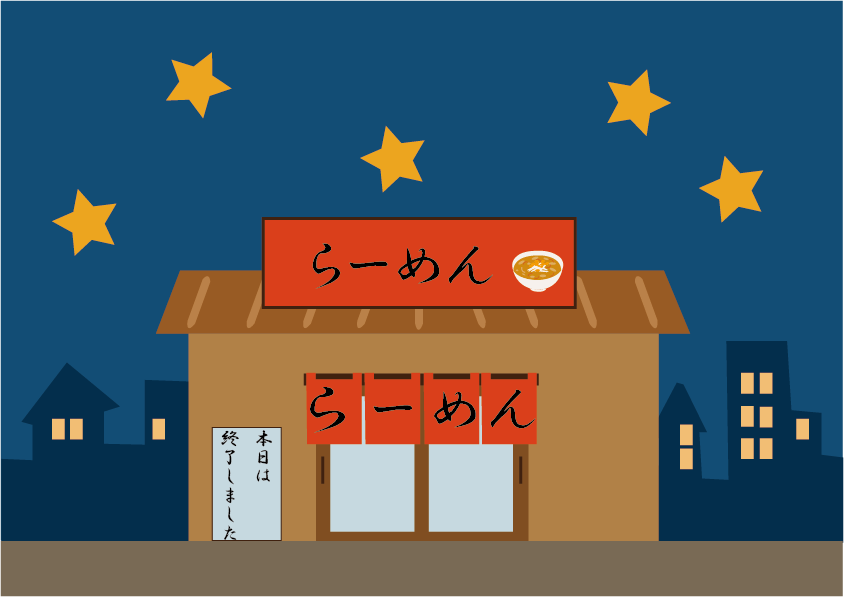
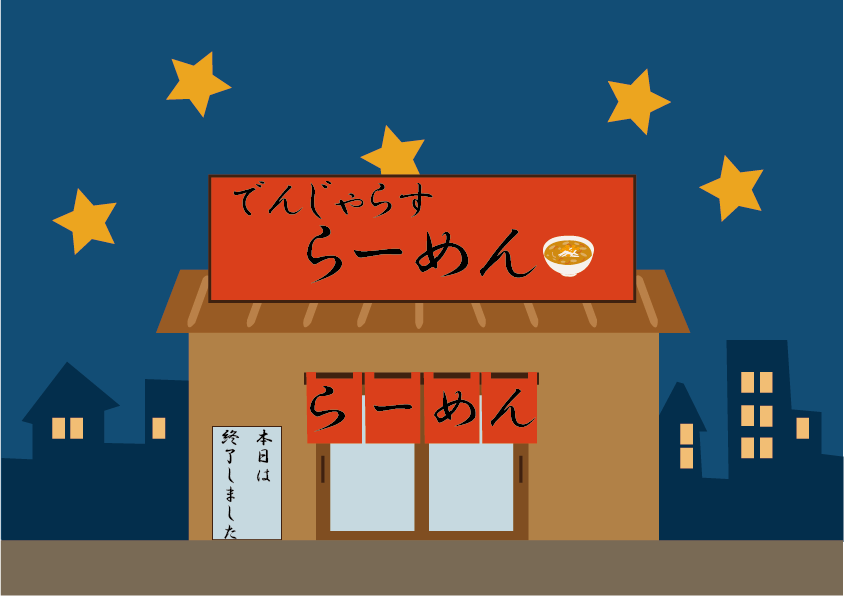
バグ：連続でキーを押したときの不具合と０秒でキーを押したときの一瞬×が見える不具合

diff --git a/pgame_canvas_sp.js b/pgame_canvas_sp.js
@@ -9,12 +9,6 @@ lib.ssMetadata = [];
 
 
 
-(lib.flash0aiアセット = function() {
-	this.initialize(img.flash0aiアセット);
-}).prototype = p = new cjs.Bitmap();
-p.nominalBounds = new cjs.Rectangle(0,0,843,596);
-
-
 (lib.GameBackScreen_SP = function() {
 	this.initialize(img.GameBackScreen_SP);
 }).prototype = p = new cjs.Bitmap();
@@ -90,7 +84,7 @@ p.nominalBounds = new cjs.Rectangle(0,0,168,159);
 (lib.ResultScene = function() {
 	this.initialize(img.ResultScene);
 }).prototype = p = new cjs.Bitmap();
-p.nominalBounds = new cjs.Rectangle(0,0,844,597);
+p.nominalBounds = new cjs.Rectangle(0,0,844,596);
 
 
 (lib.ResultSheet = function() {
@@ -127,6 +121,12 @@ p.nominalBounds = new cjs.Rectangle(0,0,167,166);
 	this.initialize(img.StartButton_SP_Push);
 }).prototype = p = new cjs.Bitmap();
 p.nominalBounds = new cjs.Rectangle(0,0,167,159);
+
+
+(lib.TopScene = function() {
+	this.initialize(img.TopScene);
+}).prototype = p = new cjs.Bitmap();
+p.nominalBounds = new cjs.Rectangle(0,0,843,596);
 
 
 (lib.TwitterButton_SP = function() {
@@ -409,6 +409,9 @@ p.nominalBounds = new cjs.Rectangle(0,0,167,166);
 	this.initialize(mode,startPosition,loop,{});
 
 	// Component
+	this.instance = new lib.TopScene();
+	this.instance.setTransform(-1,247,0.7604,0.8087);
+
 	this.helpsheet = new lib.HelpSheet();
 	this.helpsheet.name = "helpsheet";
 	this.helpsheet.setTransform(321.1,-221.45,0.7601,0.7434,0,0,0,421.1,-299.9);
@@ -423,22 +426,19 @@ p.nominalBounds = new cjs.Rectangle(0,0,167,166);
 	this.botan.setTransform(203.65,770.6,0.8981,0.9037,0,0,0,109.8,22.2);
 	new cjs.ButtonHelper(this.botan, 0, 1, 2);
 
-	this.instance = new lib.flash0aiアセット();
-	this.instance.setTransform(-1,248,0.7604,0.8087);
-
 	this.shape = new cjs.Shape();
[1 lines of base64/hex data omitted]
-	this.shape.setTransform(323.125,178.5625);
+	this.shape.graphics.f("#796A55").s().p("EgyEATiMAAAgnDMBkJAAAMAAAAnDg");
+	this.shape.setTransform(319.5,853.45);
 
 	this.shape_1 = new cjs.Shape();
-	this.shape_1.graphics.f("#675743").s().p("EgyEATiMAAAgnDMBkJAAAMAAAAnDg");
-	this.shape_1.setTransform(319.5,853.45);
[1 lines of base64/hex data omitted]
+	this.shape_1.setTransform(323.125,178.5625);
 
 	this.shape_2 = new cjs.Shape();
-	this.shape_2.graphics.f("#E88317").s().p("EAiCATiQEVgGDHhXQDVheAAiEQAAiFjVhdQjUhekuAAQksAAjWBeQjUBdAACFQAACEDUBeQDIBXEVAGMhS7AAAMAAAgnDMBkJAAAMAAAAnDgEgoVAIbQjVBeAACEQAACFDVBeQDVBdEtAAQEtAADVhdQDVhegBiFQABiEjVheQjVhdktAAQktAAjVBdgAqYgwQjVBcAACFQAACEDVBeQDUBeEuAAQErAADVheQDVheAAiEQAAiFjVhcQjVhdkrAAQkuAAjUBdg");
+	this.shape_2.graphics.f("#EA9829").s().p("EAiCATiQEVgGDHhXQDVheAAiEQAAiFjVhdQjUhekuAAQksAAjWBeQjUBdAACFQAACEDUBeQDIBXEVAGMhS7AAAMAAAgnDMBkJAAAMAAAAnDgEgoVAIbQjVBeAACEQAACFDVBeQDVBdEtAAQEtAADVhdQDVhegBiFQABiEjVheQjVhdktAAQktAAjVBdgAqYgwQjVBcAACFQAACEDVBeQDUBeEuAAQErAADVheQDVheAAiEQAAiFjVhcQjVhdkrAAQkuAAjUBdg");
 	this.shape_2.setTransform(319.5,123.2);
 
-	this.timeline.addTween(cjs.Tween.get({}).to({state:[{t:this.shape_2},{t:this.shape_1},{t:this.shape},{t:this.instance},{t:this.botan},{t:this.helpbutton},{t:this.helpsheet}]}).wait(1));
+	this.timeline.addTween(cjs.Tween.get({}).to({state:[{t:this.shape_2},{t:this.shape_1},{t:this.shape},{t:this.botan},{t:this.helpbutton},{t:this.helpsheet},{t:this.instance}]}).wait(1));
 
 	// BackGround
 	this.shape_3 = new cjs.Shape();
@@ -456,6 +456,13 @@ p.nominalBounds = new cjs.Rectangle(0,0,167,166);
 	this.initialize(mode,startPosition,loop,{});
 
 	// Component
+	this.resultSheet = new lib.ResultSheet_1();
+	this.resultSheet.name = "resultSheet";
+	this.resultSheet.setTransform(320.3,-240.9,0.7647,0.8128,0,0,0,420.8,-298.6);
+
+	this.instance = new lib.ResultScene();
+	this.instance.setTransform(-1,216,0.7629,0.8142);
+
 	this.twitterButton = new lib.TwitterButton();
 	this.twitterButton.name = "twitterButton";
 	this.twitterButton.setTransform(448.3,739.15,0.9375,0.9036,0,0,0,0.1,0.1);
@@ -471,13 +478,6 @@ p.nominalBounds = new cjs.Rectangle(0,0,167,166);
 	this.restartButton.setTransform(41.25,739.05,0.8927,0.9035);
 	new cjs.ButtonHelper(this.restartButton, 0, 1, 2);
 
-	this.resultSheet = new lib.ResultSheet_1();
-	this.resultSheet.name = "resultSheet";
-	this.resultSheet.setTransform(320.3,-240.9,0.7647,0.8128,0,0,0,420.8,-298.6);
-
-	this.instance = new lib.ResultScene();
-	this.instance.setTransform(-1,216,0.7629,0.8128);
-
 	this.shape = new cjs.Shape();
 	this.shape.graphics.f("#796A55").s().p("EgyEAVJMAAAgqRMBkJAAAMAAAAqRg");
 	this.shape.setTransform(321.5,835);
@@ -486,7 +486,7 @@ p.nominalBounds = new cjs.Rectangle(0,0,167,166);
 	this.shape_1.graphics.f("#124D75").s().p("EgyJAUAIAAjbMBkJAAAIAADbgEgx/AOFMAAAgiEMBkJAAAMAAAAiEg");
 	this.shape_1.setTransform(320,128);
 
-	this.timeline.addTween(cjs.Tween.get({}).to({state:[{t:this.shape_1},{t:this.shape},{t:this.instance},{t:this.resultSheet},{t:this.restartButton},{t:this.lineButton},{t:this.twitterButton}]}).wait(1));
+	this.timeline.addTween(cjs.Tween.get({}).to({state:[{t:this.shape_1},{t:this.shape},{t:this.restartButton},{t:this.lineButton},{t:this.twitterButton},{t:this.instance},{t:this.resultSheet}]}).wait(1));
 
 	// BackGround
 	this.shape_2 = new cjs.Shape();
@@ -643,28 +643,28 @@ lib.properties = {
 	color: "#CCCCCC",
 	opacity: 1.00,
 	manifest: [
-		{src:"jsgame/images_sp/flash0aiアセット.png?1588319822321", id:"flash0aiアセット"},
-		{src:"jsgame/images_sp/GameBackScreen_SP.png?1588319822321", id:"GameBackScreen_SP"},
-		{src:"jsgame/images_sp/HelpButton_SP.png?1588319822321", id:"HelpButton_SP"},
-		{src:"jsgame/images_sp/HelpButton_SP_Push.png?1588319822321", id:"HelpButton_SP_Push"},
-		{src:"jsgame/images_sp/helpsheet_SP.png?1588319822321", id:"helpsheet_SP"},
-		{src:"jsgame/images_sp/LeftButton.png?1588319822321", id:"LeftButton"},
-		{src:"jsgame/images_sp/LeftButtonPush.png?1588319822321", id:"LeftButtonPush"},
-		{src:"jsgame/images_sp/LineButton_SP.png?1588319822321", id:"LineButton_SP"},
-		{src:"jsgame/images_sp/LineButton_SP_Push.png?1588319822321", id:"LineButton_SP_Push"},
-		{src:"jsgame/images_sp/nannidoupsheet.png?1588319822321", id:"nannidoupsheet"},
-		{src:"jsgame/images_sp/owan.png?1588319822321", id:"owan"},
-		{src:"jsgame/images_sp/RestartButton_SP.png?1588319822321", id:"RestartButton_SP"},
-		{src:"jsgame/images_sp/RestartButton_SP_Push.png?1588319822321", id:"RestartButton_SP_Push"},
-		{src:"jsgame/images_sp/ResultScene.png?1588319822321", id:"ResultScene"},
-		{src:"jsgame/images_sp/ResultSheet.png?1588319822321", id:"ResultSheet"},
-		{src:"jsgame/images_sp/RightButton.png?1588319822321", id:"RightButton"},
-		{src:"jsgame/images_sp/RightButtonPush.png?1588319822321", id:"RightButtonPush"},
-		{src:"jsgame/images_sp/shape.png?1588319822321", id:"shape"},
-		{src:"jsgame/images_sp/StartButton_SP.png?1588319822321", id:"StartButton_SP"},
-		{src:"jsgame/images_sp/StartButton_SP_Push.png?1588319822321", id:"StartButton_SP_Push"},
-		{src:"jsgame/images_sp/TwitterButton_SP.png?1588319822321", id:"TwitterButton_SP"},
-		{src:"jsgame/images_sp/TwitterButton_SP_Push.png?1588319822321", id:"TwitterButton_SP_Push"}
+		{src:"jsgame/images_sp/GameBackScreen_SP.png?1588780342645", id:"GameBackScreen_SP"},
+		{src:"jsgame/images_sp/HelpButton_SP.png?1588780342645", id:"HelpButton_SP"},
+		{src:"jsgame/images_sp/HelpButton_SP_Push.png?1588780342645", id:"HelpButton_SP_Push"},
+		{src:"jsgame/images_sp/helpsheet_SP.png?1588780342645", id:"helpsheet_SP"},
+		{src:"jsgame/images_sp/LeftButton.png?1588780342645", id:"LeftButton"},
+		{src:"jsgame/images_sp/LeftButtonPush.png?1588780342645", id:"LeftButtonPush"},
+		{src:"jsgame/images_sp/LineButton_SP.png?1588780342645", id:"LineButton_SP"},
+		{src:"jsgame/images_sp/LineButton_SP_Push.png?1588780342645", id:"LineButton_SP_Push"},
+		{src:"jsgame/images_sp/nannidoupsheet.png?1588780342645", id:"nannidoupsheet"},
+		{src:"jsgame/images_sp/owan.png?1588780342645", id:"owan"},
+		{src:"jsgame/images_sp/RestartButton_SP.png?1588780342645", id:"RestartButton_SP"},
+		{src:"jsgame/images_sp/RestartButton_SP_Push.png?1588780342645", id:"RestartButton_SP_Push"},
+		{src:"jsgame/images_sp/ResultScene.png?1588780342645", id:"ResultScene"},
+		{src:"jsgame/images_sp/ResultSheet.png?1588780342645", id:"ResultSheet"},
+		{src:"jsgame/images_sp/RightButton.png?1588780342645", id:"RightButton"},
+		{src:"jsgame/images_sp/RightButtonPush.png?1588780342645", id:"RightButtonPush"},
+		{src:"jsgame/images_sp/shape.png?1588780342645", id:"shape"},
+		{src:"jsgame/images_sp/StartButton_SP.png?1588780342645", id:"StartButton_SP"},
+		{src:"jsgame/images_sp/StartButton_SP_Push.png?1588780342645", id:"StartButton_SP_Push"},
+		{src:"jsgame/images_sp/TopScene.png?1588780342645", id:"TopScene"},
+		{src:"jsgame/images_sp/TwitterButton_SP.png?1588780342645", id:"TwitterButton_SP"},
+		{src:"jsgame/images_sp/TwitterButton_SP_Push.png?1588780342645", id:"TwitterButton_SP_Push"}
 	],
 	preloads: []
 };

diff --git a/pgame_canvas_pc.js b/pgame_canvas_pc.js
@@ -9,12 +9,6 @@ lib.ssMetadata = [];
 
 
 
-(lib.flash0aiアセット = function() {
-	this.initialize(img.flash0aiアセット);
-}).prototype = p = new cjs.Bitmap();
-p.nominalBounds = new cjs.Rectangle(0,0,843,596);
-
-
 (lib.GameBackScreen = function() {
 	this.initialize(img.GameBackScreen);
 }).prototype = p = new cjs.Bitmap();
@@ -109,6 +103,12 @@ p.nominalBounds = new cjs.Rectangle(0,0,220,46);
 	this.initialize(img.StartButton_PC_Push);
 }).prototype = p = new cjs.Bitmap();
 p.nominalBounds = new cjs.Rectangle(0,0,220,42);
+
+
+(lib.TopScene = function() {
+	this.initialize(img.TopScene);
+}).prototype = p = new cjs.Bitmap();
+p.nominalBounds = new cjs.Rectangle(0,0,843,596);
 
 
 (lib.TwitterButton_PC = function() {
@@ -349,8 +349,8 @@ p.nominalBounds = new cjs.Rectangle(0,0,220,46);
 	this.botan.setTransform(139,442,0.8219,0.8219);
 	new cjs.ButtonHelper(this.botan, 0, 1, 2);
 
-	this.instance = new lib.flash0aiアセット();
-	this.instance.setTransform(0,-1,0.7604,0.8087);
+	this.instance = new lib.TopScene();
+	this.instance.setTransform(0,0,0.7604,0.8087);
 
 	this.timeline.addTween(cjs.Tween.get({}).to({state:[{t:this.instance},{t:this.botan},{t:this.helpbutton},{t:this.helpsheet}]}).wait(1));
 
@@ -363,7 +363,7 @@ p.nominalBounds = new cjs.Rectangle(0,0,220,46);
 
 	this._renderFirstFrame();
 
-}).prototype = getMCSymbolPrototype(lib.PageTop, new cjs.Rectangle(0,-443.7,641.8,925), null);
+}).prototype = getMCSymbolPrototype(lib.PageTop, new cjs.Rectangle(0,-443.7,641.8,925.7), null);
 
 
 (lib.PageResult = function(mode,startPosition,loop) {
@@ -537,25 +537,25 @@ lib.properties = {
 	color: "#CCCCCC",
 	opacity: 1.00,
 	manifest: [
-		{src:"jsgame/images_pc/flash0aiアセット.png?1588312367977", id:"flash0aiアセット"},
-		{src:"jsgame/images_pc/GameBackScreen.png?1588312367977", id:"GameBackScreen"},
-		{src:"jsgame/images_pc/HelpButton_PC.png?1588312367977", id:"HelpButton_PC"},
-		{src:"jsgame/images_pc/HelpButton_PC_Push.png?1588312367977", id:"HelpButton_PC_Push"},
-		{src:"jsgame/images_pc/helpsheet2.png?1588312367977", id:"helpsheet2"},
-		{src:"jsgame/images_pc/LineButton_PC.png?1588312367977", id:"LineButton_PC"},
-		{src:"jsgame/images_pc/LineButton_PC_Push.png?1588312367977", id:"LineButton_PC_Push"},
-		{src:"jsgame/images_pc/nannidoupsheet.png?1588312367977", id:"nannidoupsheet"},
-		{src:"jsgame/images_pc/owan.png?1588312367977", id:"owan"},
-		{src:"jsgame/images_pc/poster.png?1588312367977", id:"poster"},
-		{src:"jsgame/images_pc/RestartButton_PC.png?1588312367977", id:"RestartButton_PC"},
-		{src:"jsgame/images_pc/RestartButton_PC_Push.png?1588312367977", id:"RestartButton_PC_Push"},
-		{src:"jsgame/images_pc/ResultScene.png?1588312367977", id:"ResultScene"},
-		{src:"jsgame/images_pc/ResultSheet.png?1588312367977", id:"ResultSheet"},
-		{src:"jsgame/images_pc/shape.png?1588312367977", id:"shape"},
-		{src:"jsgame/images_pc/StartButton_PC.png?1588312367977", id:"StartButton_PC"},
-		{src:"jsgame/images_pc/StartButton_PC_Push.png?1588312367977", id:"StartButton_PC_Push"},
-		{src:"jsgame/images_pc/TwitterButton_PC.png?1588312367977", id:"TwitterButton_PC"},
-		{src:"jsgame/images_pc/TwitterButton_PC_Push.png?1588312367977", id:"TwitterButton_PC_Push"}
+		{src:"jsgame/images_pc/GameBackScreen.png?1588779899586", id:"GameBackScreen"},
+		{src:"jsgame/images_pc/HelpButton_PC.png?1588779899586", id:"HelpButton_PC"},
+		{src:"jsgame/images_pc/HelpButton_PC_Push.png?1588779899586", id:"HelpButton_PC_Push"},
+		{src:"jsgame/images_pc/helpsheet2.png?1588779899586", id:"helpsheet2"},
+		{src:"jsgame/images_pc/LineButton_PC.png?1588779899586", id:"LineButton_PC"},
+		{src:"jsgame/images_pc/LineButton_PC_Push.png?1588779899586", id:"LineButton_PC_Push"},
+		{src:"jsgame/images_pc/nannidoupsheet.png?1588779899586", id:"nannidoupsheet"},
+		{src:"jsgame/images_pc/owan.png?1588779899586", id:"owan"},
+		{src:"jsgame/images_pc/poster.png?1588779899586", id:"poster"},
+		{src:"jsgame/images_pc/RestartButton_PC.png?1588779899586", id:"RestartButton_PC"},
+		{src:"jsgame/images_pc/RestartButton_PC_Push.png?1588779899586", id:"RestartButton_PC_Push"},
+		{src:"jsgame/images_pc/ResultScene.png?1588779899586", id:"ResultScene"},
+		{src:"jsgame/images_pc/ResultSheet.png?1588779899586", id:"ResultSheet"},
+		{src:"jsgame/images_pc/shape.png?1588779899586", id:"shape"},
+		{src:"jsgame/images_pc/StartButton_PC.png?1588779899586", id:"StartButton_PC"},
+		{src:"jsgame/images_pc/StartButton_PC_Push.png?1588779899586", id:"StartButton_PC_Push"},
+		{src:"jsgame/images_pc/TopScene.png?1588779899586", id:"TopScene"},
+		{src:"jsgame/images_pc/TwitterButton_PC.png?1588779899586", id:"TwitterButton_PC"},
+		{src:"jsgame/images_pc/TwitterButton_PC_Push.png?1588779899586", id:"TwitterButton_PC_Push"}
 	],
 	preloads: []
 };

diff --git a/src/scene/game/scene-game.ts b/src/scene/game/scene-game.ts
@@ -83,9 +83,10 @@ export class SceneGame extends Scene {
           this.count = Math.round(countDownTime * 10) / 10;
           mc.CountDown.text = `${this.count}`;
           if (countDownTime <= 0.1) {
-            this.timeOutFlag = true;
+            console.log("タイムアウトしましたよ");
             this.timeOut();
             clearInterval(this.id);
+            this.timeOutFlag = true;
           }
         }, 100);
       }
@@ -428,8 +429,7 @@ export class SceneGame extends Scene {
             countDown.mistakeRamen();
             reject("失敗");
           } else if (
-            countDown.timeOutFlag ||
-            keyCode === 0 ||
+            (countDown.timeOutFlag && keyCode === 0) ||
             buttonCode === 0
           ) {
             backScreen_GameOver.gameOverBackScreen.visible = true;
@@ -542,7 +542,7 @@ export class SceneGame extends Scene {
         if (keyCode === 37) {
           //カウントダウン中のみ押せるようにする
           if (!countDown.keyDownChange) {
-            event.preventDefault();
+            //event.preventDefault();
           }
           //一回しか押せないようにする
           else if (countDown.keyDownLimit) {

diff --git a/pgame_canvas_pc.html b/pgame_canvas_pc.html
@@ -14,7 +14,7 @@
 <title>pgame_canvas_pc</title>
 <!-- write your code here -->
 <script src="https://code.createjs.com/1.0.0/createjs.min.js"></script>
-<script src="pgame_canvas_pc.js?1588312368026"></script>
+<script src="pgame_canvas_pc.js?1588779899706"></script>
 <script>
 var canvas, stage, exportRoot, anim_container, dom_overlay_container, fnStartAnimation;
 function init() {

diff --git a/pgame_canvas_sp.html b/pgame_canvas_sp.html
@@ -14,7 +14,7 @@
 <title>pgame_canvas_sp</title>
 <!-- write your code here -->
 <script src="https://code.createjs.com/1.0.0/createjs.min.js"></script>
-<script src="pgame_canvas_sp.js?1588319822403"></script>
+<script src="pgame_canvas_sp.js?1588780342715"></script>
 <script>
 var canvas, stage, exportRoot, anim_container, dom_overlay_container, fnStartAnimation;
 function init() {
